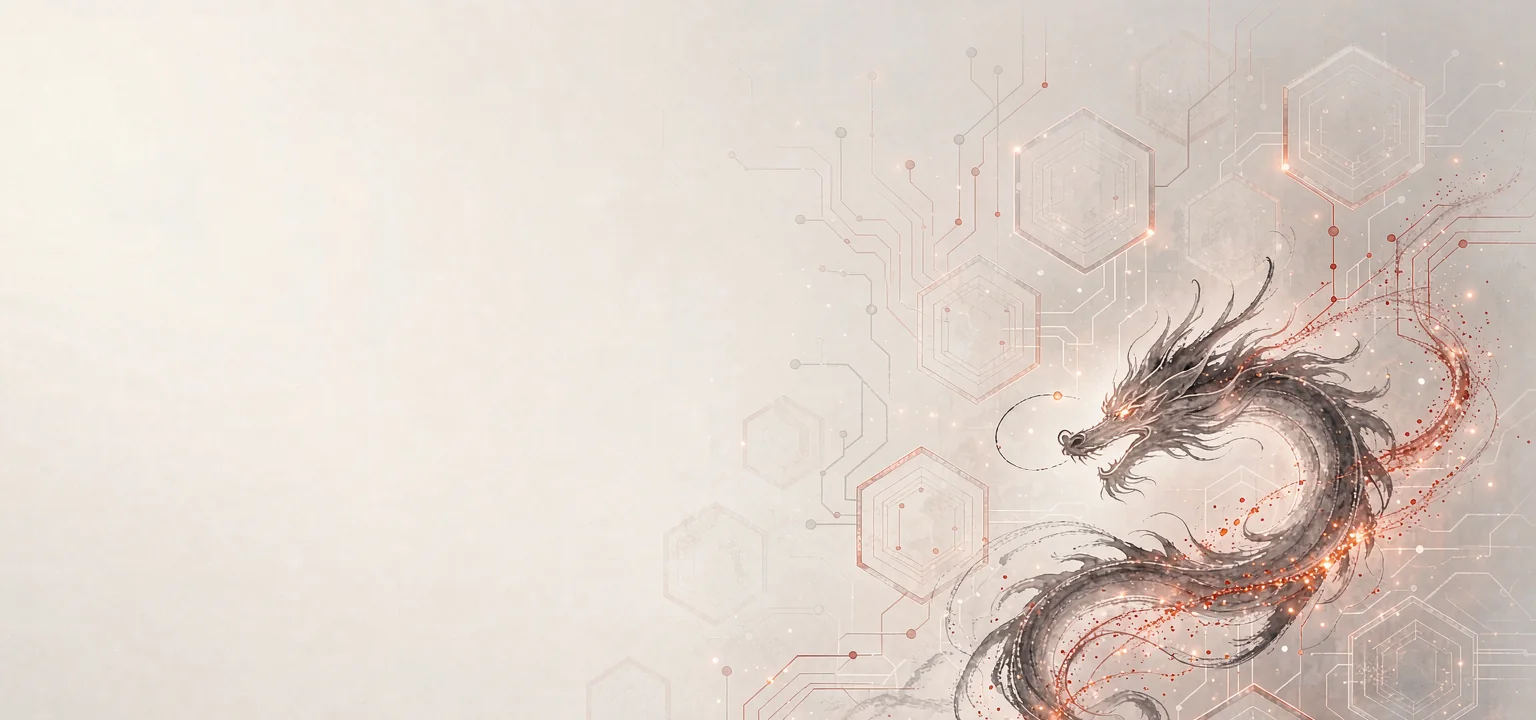
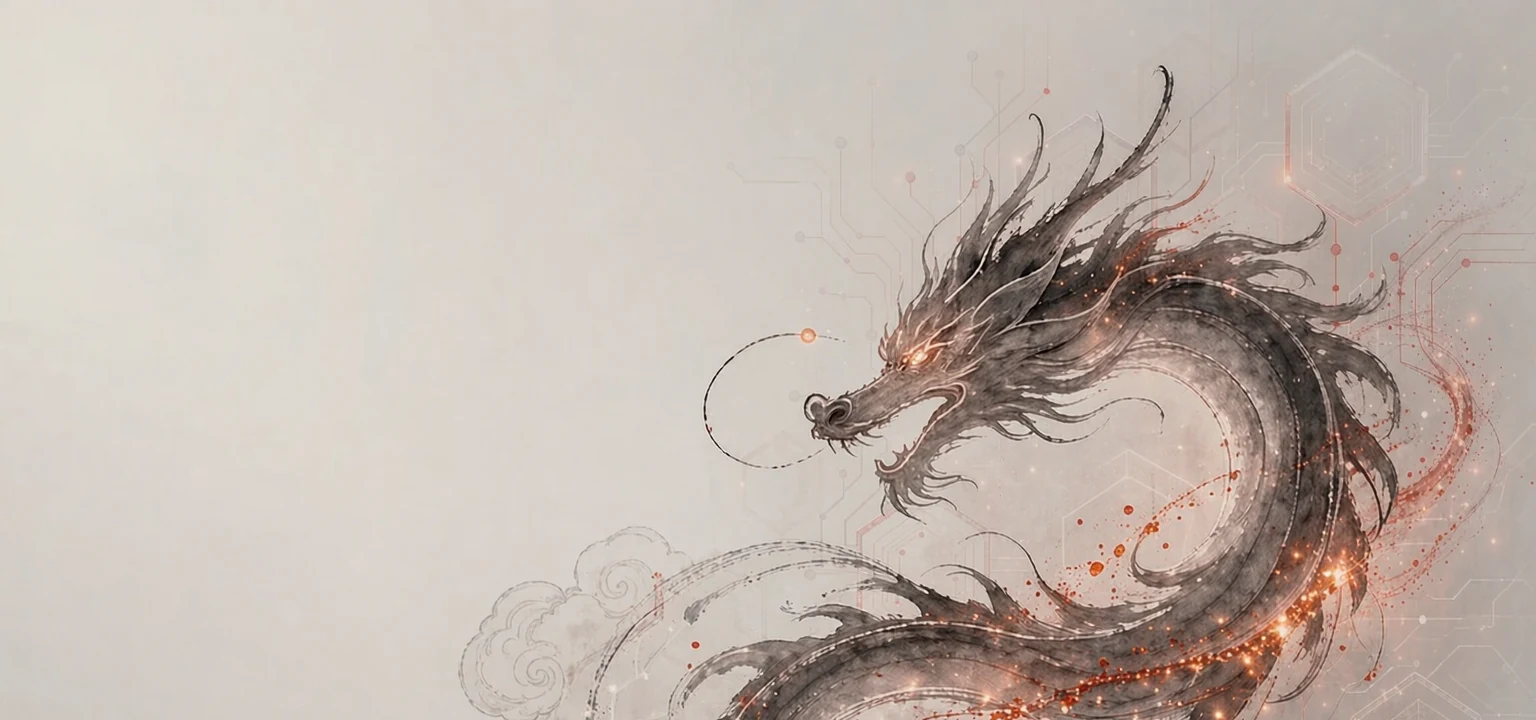
dragon hero: regenerate art with much larger dragon (img2img), recenter anchors

diff --git a/site.css b/site.css
@@ -163,8 +163,8 @@ button.theme-toggle:hover { border-color: var(--acc); }
   /* light defaults (dragon) */
   --hb-ink: #17212b; --hb-lead: #4b5866;
   --hb-acc: #b3452c; --hb-glow: rgba(179,69,44,.20);
-  --hb-base: #f1ebe3; --hb-rgb: 241,235,227; --hb-py: 70%;
-  --hb-art: url(assets/hero-banner-dragon-light.webp);
+  --hb-base: #f1ebe3; --hb-rgb: 241,235,227; --hb-py: 65%;
+  --hb-art: url(assets/hero-banner-dragon-light.webp?v=2);
   --hb-size: auto 120%; --hb-pos: 78% 62%;
 
   background-color: var(--hb-base);
@@ -252,8 +252,8 @@ html[lang="zh-CN"] .hb-kicker { letter-spacing: .06em; }
   border-color: rgba(255,255,255,.07);
   box-shadow: 0 1px 2px rgba(0,0,0,.3), 0 10px 28px rgba(0,0,0,.35);
   --hb-ink: #eef3f8; --hb-lead: #c3cedb;
-  --hb-base: #0b0f12; --hb-rgb: 11,15,18; --hb-py: 58%;
-  --hb-art: url(assets/hero-banner-dragon.webp);
+  --hb-base: #0b0f12; --hb-rgb: 11,15,18; --hb-py: 60%;
+  --hb-art: url(assets/hero-banner-dragon.webp?v=2);
   --hb-acc: #ff8a5c; --hb-glow: rgba(255,116,64,.5);
 }
 :root[data-theme="dark"] .hero-banner--thunder {
@@ -269,8 +269,8 @@ html[lang="zh-CN"] .hb-kicker { letter-spacing: .06em; }
     border-color: rgba(255,255,255,.07);
     box-shadow: 0 1px 2px rgba(0,0,0,.3), 0 10px 28px rgba(0,0,0,.35);
     --hb-ink: #eef3f8; --hb-lead: #c3cedb;
-    --hb-base: #0b0f12; --hb-rgb: 11,15,18; --hb-py: 58%;
-    --hb-art: url(assets/hero-banner-dragon.webp);
+    --hb-base: #0b0f12; --hb-rgb: 11,15,18; --hb-py: 60%;
+    --hb-art: url(assets/hero-banner-dragon.webp?v=2);
     --hb-acc: #ff8a5c; --hb-glow: rgba(255,116,64,.5);
   }
   :root:not([data-theme="light"]) .hero-banner--thunder {

diff --git a/thunder/specification.html b/thunder/specification.html
@@ -4,7 +4,7 @@
 <meta charset="utf-8">
 <meta name="viewport" content="width=device-width, initial-scale=1">
 <title>Specification — Thunder (hash-33)</title>
-<link rel="stylesheet" href="../site.css?v=40">
+<link rel="stylesheet" href="../site.css?v=41">
 <script src="../theme.js?v=2"></script>
 <link rel="icon" type="image/png" href="../assets/favicon-thunder.png">
 <meta name="description" content="Thunder (hash-33), an NGCC Round-1 hash candidate: the 12-round permutation Thunder-p (Keccak-p lane geometry, order ι→ρ→θ→π→ψ, degree-3 ψ) in the sponge-forward mode. Parameters, sponge-forward mode and the permutation, with round constants.">

diff --git a/dragon/implementations.html b/dragon/implementations.html
@@ -4,7 +4,7 @@
 <meta charset="utf-8">
 <meta name="viewport" content="width=device-width, initial-scale=1">
 <title>Implementations — Dragon (hash-07)</title>
-<link rel="stylesheet" href="../site.css?v=40">
+<link rel="stylesheet" href="../site.css?v=41">
 <script src="../theme.js?v=2"></script>
 <link rel="icon" type="image/png" href="../assets/favicon-dragon.png">
 <meta name="description" content="Dragon (hash-07), an NGCC Round-1 hash candidate: the 16-round ARX permutation Dragon-p in the sponge-forward mode — specs, code, KAT, performance and third-party analysis. Package layout, build & KAT instructions, implementation-vs-spec review notes.">

diff --git a/dragon/performance.html b/dragon/performance.html
@@ -4,7 +4,7 @@
 <meta charset="utf-8">
 <meta name="viewport" content="width=device-width, initial-scale=1">
 <title>Performance — Dragon (hash-07)</title>
-<link rel="stylesheet" href="../site.css?v=40">
+<link rel="stylesheet" href="../site.css?v=41">
 <script src="../theme.js?v=2"></script>
 <link rel="icon" type="image/png" href="../assets/favicon-dragon.png">
 <meta name="description" content="Dragon (hash-07), an NGCC Round-1 hash candidate: the 16-round ARX permutation Dragon-p in the sponge-forward mode — specs, code, KAT, performance and third-party analysis. Designer self-assessment (S1–S8, x86-64 and ARM) and the ASIC hardware tables.">

diff --git a/dragon/analysis.html b/dragon/analysis.html
@@ -4,7 +4,7 @@
 <meta charset="utf-8">
 <meta name="viewport" content="width=device-width, initial-scale=1">
 <title>Analysis — Dragon (hash-07)</title>
-<link rel="stylesheet" href="../site.css?v=40">
+<link rel="stylesheet" href="../site.css?v=41">
 <script src="../theme.js?v=2"></script>
 <link rel="icon" type="image/png" href="../assets/favicon-dragon.png">
 <meta name="description" content="Dragon (hash-07), an NGCC Round-1 hash candidate: the 16-round ARX permutation Dragon-p in the sponge-forward mode — specs, code, KAT, performance and third-party analysis. Third-party security status, constant-time audit and implementation review notes.">

diff --git a/dragon/specification.html b/dragon/specification.html
@@ -4,7 +4,7 @@
 <meta charset="utf-8">
 <meta name="viewport" content="width=device-width, initial-scale=1">
 <title>Specification — Dragon (hash-07)</title>
-<link rel="stylesheet" href="../site.css?v=40">
+<link rel="stylesheet" href="../site.css?v=41">
 <script src="../theme.js?v=2"></script>
 <link rel="icon" type="image/png" href="../assets/favicon-dragon.png">
 <meta name="description" content="Dragon (hash-07), an NGCC Round-1 hash candidate: the 16-round ARX permutation Dragon-p in the sponge-forward mode — specs, code, KAT, performance and third-party analysis. Parameters, sponge-forward mode and the permutation, with round constants.">

diff --git a/dragon/implementations.zh.html b/dragon/implementations.zh.html
@@ -4,7 +4,7 @@
 <meta charset="utf-8">
 <meta name="viewport" content="width=device-width, initial-scale=1">
 <title>实现 — Dragon (hash-07)</title>
-<link rel="stylesheet" href="../site.css?v=40">
+<link rel="stylesheet" href="../site.css?v=41">
 <script src="../theme.js?v=2"></script>
 <link rel="icon" type="image/png" href="../assets/favicon-dragon.png">
 <meta name="description" content="Dragon（hash-07），NGCC Round-1 杂凑候选：16 轮 ARX 置换 Dragon-p + sponge-forward 前馈模式——规范、实现、自测向量、性能与第三方分析。 提交包结构、构建与 KAT 步骤、实现与规范核对注记。">

diff --git a/dragon/analysis.zh.html b/dragon/analysis.zh.html
@@ -4,7 +4,7 @@
 <meta charset="utf-8">
 <meta name="viewport" content="width=device-width, initial-scale=1">
 <title>分析 — Dragon (hash-07)</title>
-<link rel="stylesheet" href="../site.css?v=40">
+<link rel="stylesheet" href="../site.css?v=41">
 <script src="../theme.js?v=2"></script>
 <link rel="icon" type="image/png" href="../assets/favicon-dragon.png">
 <meta name="description" content="Dragon（hash-07），NGCC Round-1 杂凑候选：16 轮 ARX 置换 Dragon-p + sponge-forward 前馈模式——规范、实现、自测向量、性能与第三方分析。 第三方安全状态、constant-time 审查与实现核对注记。">

diff --git a/thunder/implementations.html b/thunder/implementations.html
@@ -4,7 +4,7 @@
 <meta charset="utf-8">
 <meta name="viewport" content="width=device-width, initial-scale=1">
 <title>Implementations — Thunder (hash-33)</title>
-<link rel="stylesheet" href="../site.css?v=40">
+<link rel="stylesheet" href="../site.css?v=41">
 <script src="../theme.js?v=2"></script>
 <link rel="icon" type="image/png" href="../assets/favicon-thunder.png">
 <meta name="description" content="Thunder (hash-33), an NGCC Round-1 hash candidate: the 12-round Keccak-p-shaped permutation Thunder-p with a degree-3 layer in the sponge-forward mode. Package layout, build & KAT instructions, implementation-vs-spec review notes.">

diff --git a/thunder/specification.zh.html b/thunder/specification.zh.html
@@ -4,7 +4,7 @@
 <meta charset="utf-8">
 <meta name="viewport" content="width=device-width, initial-scale=1">
 <title>规范 — Thunder (hash-33)</title>
-<link rel="stylesheet" href="../site.css?v=40">
+<link rel="stylesheet" href="../site.css?v=41">
 <script src="../theme.js?v=2"></script>
 <link rel="icon" type="image/png" href="../assets/favicon-thunder.png">
 <meta name="description" content="Thunder（hash-33），NGCC Round-1 杂凑候选：12 轮置换 Thunder-p（Keccak-p lane 几何，序 ι→ρ→θ→π→ψ，三次 ψ）+ sponge-forward 前馈模式。 参数表、sponge-forward 模式与置换（含轮常数表）。">

diff --git a/dragon/performance.zh.html b/dragon/performance.zh.html
@@ -4,7 +4,7 @@
 <meta charset="utf-8">
 <meta name="viewport" content="width=device-width, initial-scale=1">
 <title>性能 — Dragon (hash-07)</title>
-<link rel="stylesheet" href="../site.css?v=40">
+<link rel="stylesheet" href="../site.css?v=41">
 <script src="../theme.js?v=2"></script>
 <link rel="icon" type="image/png" href="../assets/favicon-dragon.png">
 <meta name="description" content="Dragon（hash-07），NGCC Round-1 杂凑候选：16 轮 ARX 置换 Dragon-p + sponge-forward 前馈模式——规范、实现、自测向量、性能与第三方分析。 本组自评估（S1–S8，x86-64 与 ARM）与 ASIC 硬件表。">

diff --git a/dragon/specification.zh.html b/dragon/specification.zh.html
@@ -4,7 +4,7 @@
 <meta charset="utf-8">
 <meta name="viewport" content="width=device-width, initial-scale=1">
 <title>规范 — Dragon (hash-07)</title>
-<link rel="stylesheet" href="../site.css?v=40">
+<link rel="stylesheet" href="../site.css?v=41">
 <script src="../theme.js?v=2"></script>
 <link rel="icon" type="image/png" href="../assets/favicon-dragon.png">
 <meta name="description" content="Dragon（hash-07），NGCC Round-1 杂凑候选：16 轮 ARX 置换 Dragon-p + sponge-forward 前馈模式——规范、实现、自测向量、性能与第三方分析。 参数表、sponge-forward 模式与置换（含轮常数表）。">
